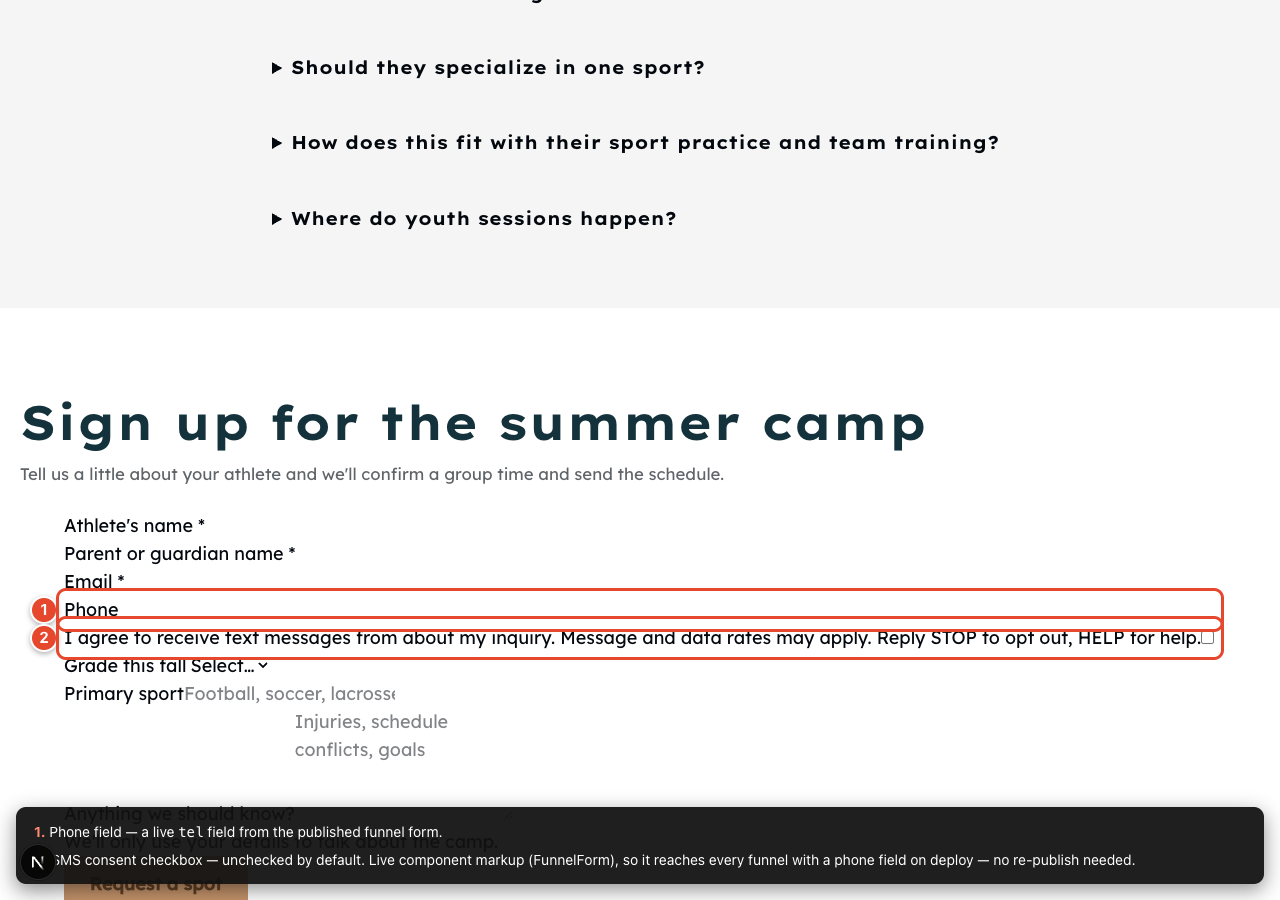
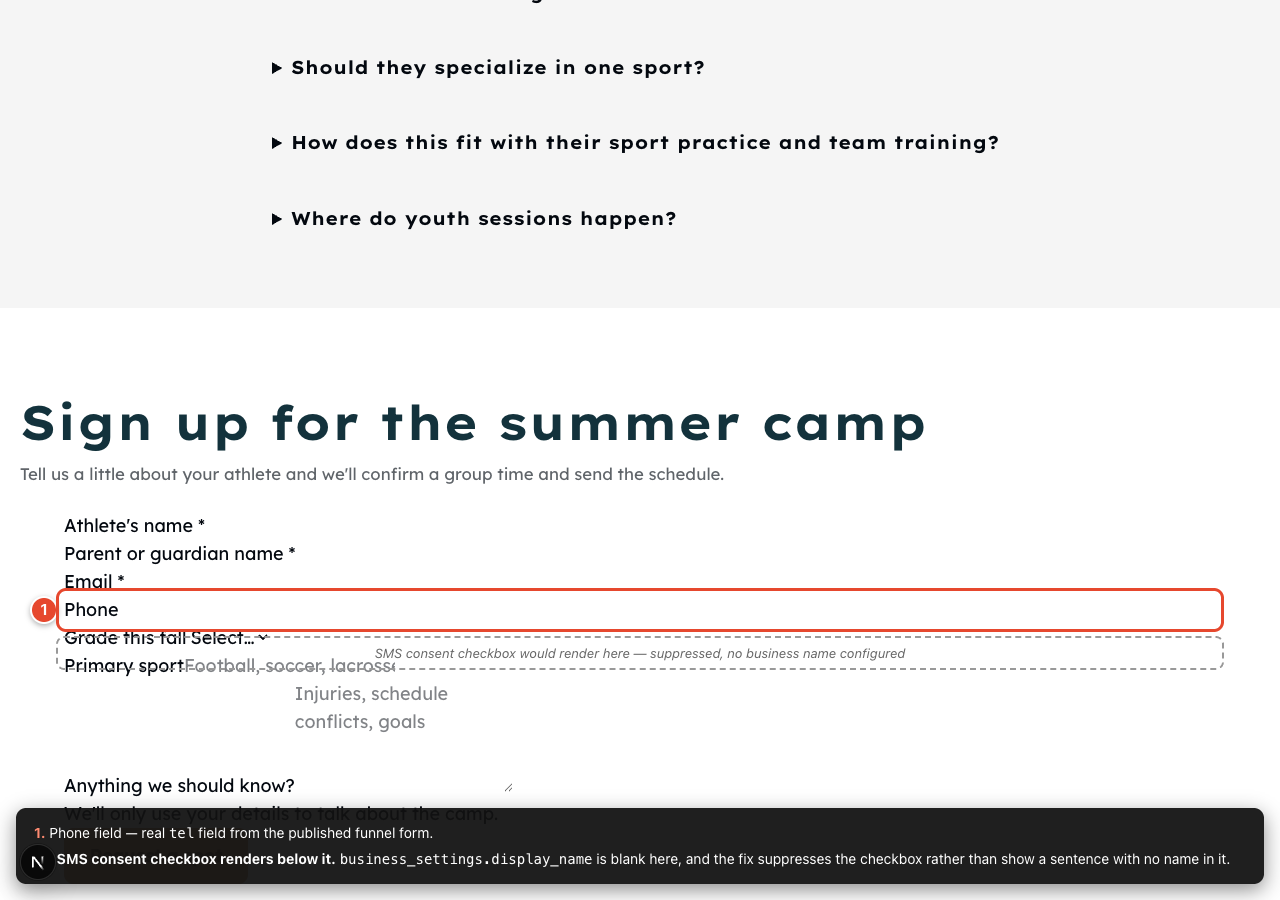
fix(lead-engine): no business name, no consent checkbox — a nameless sentence is not consent

Changed region(s): [[0.0, 0.6844, 0.9688, 0.84], [0.0312, 0.8711, 0.9375, 1.0]]

diff --git a/__tests__/components/funnels/form-island-sms-consent.test.tsx b/__tests__/components/funnels/form-island-sms-consent.test.tsx
@@ -1,0 +1,106 @@
+// __tests__/components/funnels/form-island-sms-consent.test.tsx
+//
+// FormIsland decides whether `FunnelForm` gets any `smsConsentWording` at
+// all — the decision that matters is made HERE, not in `FunnelForm` (which
+// already correctly renders no checkbox whenever the prop is absent; that
+// half is covered in funnel-form-editable.test.tsx).
+//
+// A failed `business_settings` read and a blank `display_name` must both
+// suppress the wording, never one of them falling through to a checkbox
+// whose sentence has a hole in it ("I agree to receive text messages from
+// about my inquiry."). Code review caught a version of this file that
+// substituted `""` on a failed read and still rendered the checkbox —
+// these tests pin the fixed behavior: no usable name, no checkbox, full stop.
+
+import { describe, expect, it, vi, beforeEach } from "vitest"
+
+const getActiveDocument = vi.fn()
+const getBusinessSettings = vi.fn()
+
+vi.mock("@/lib/db/legal-documents", () => ({
+  getActiveDocument: (...a: unknown[]) => getActiveDocument(...a),
+}))
+vi.mock("@/lib/legal-content", () => ({ renderLegalContent: (html: string) => html }))
+vi.mock("@/lib/db/businesses", () => ({
+  getBusinessSettings: (...a: unknown[]) => getBusinessSettings(...a),
+}))
+
+import { FormIsland } from "@/components/funnels/islands/FormIsland"
+import type { FunnelFormField } from "@/lib/funnels/islands"
+
+const CONTEXT = {
+  funnelId: "ffffffff-1111-4222-8333-444444444444",
+  funnelSlug: "test",
+  stepId: "3f1b7c5e-1111-4222-8333-444444444444",
+  stepSlug: "index",
+  isPreview: false,
+}
+
+const FIELDS_WITH_PHONE: FunnelFormField[] = [
+  { name: "email", label: "Email", type: "email", required: true },
+  { name: "phone", label: "Phone", type: "tel", required: false },
+]
+
+const FIELDS_NO_PHONE: FunnelFormField[] = [{ name: "email", label: "Email", type: "email", required: true }]
+
+// eslint-disable-next-line @typescript-eslint/no-explicit-any
+function wordingOf(element: any): string | undefined {
+  return element.props.smsConsentWording
+}
+
+beforeEach(() => {
+  getActiveDocument.mockReset()
+  getBusinessSettings.mockReset()
+})
+
+describe("FormIsland — SMS consent wording gate", () => {
+  it("passes no wording when the settings read fails", async () => {
+    // MUTANT KILLED: `.catch(() => null)` combined with `?.display_name ?? ""`
+    // — that substitutes an empty string for a failed read and still
+    // renders the checkbox, over a sentence with no name in it.
+    getBusinessSettings.mockRejectedValue(new Error("db unreachable"))
+    const element = await FormIsland({
+      props: { fields: FIELDS_WITH_PHONE, successMode: "message" },
+      context: CONTEXT,
+    })
+    expect(wordingOf(element)).toBeUndefined()
+  })
+
+  it("passes no wording when display_name is blank", async () => {
+    getBusinessSettings.mockResolvedValue({ display_name: "" })
+    const element = await FormIsland({
+      props: { fields: FIELDS_WITH_PHONE, successMode: "message" },
+      context: CONTEXT,
+    })
+    expect(wordingOf(element)).toBeUndefined()
+  })
+
+  it("passes no wording when display_name is whitespace-only", async () => {
+    getBusinessSettings.mockResolvedValue({ display_name: "   " })
+    const element = await FormIsland({
+      props: { fields: FIELDS_WITH_PHONE, successMode: "message" },
+      context: CONTEXT,
+    })
+    expect(wordingOf(element)).toBeUndefined()
+  })
+
+  it("passes the rendered wording when display_name is set", async () => {
+    getBusinessSettings.mockResolvedValue({ display_name: "Acme Fitness" })
+    const element = await FormIsland({
+      props: { fields: FIELDS_WITH_PHONE, successMode: "message" },
+      context: CONTEXT,
+    })
+    expect(wordingOf(element)).toBe(
+      "I agree to receive text messages from Acme Fitness about my inquiry. Message and data rates may apply. Reply STOP to opt out, HELP for help.",
+    )
+  })
+
+  it("never reads business_settings for a form with no tel field", async () => {
+    const element = await FormIsland({
+      props: { fields: FIELDS_NO_PHONE, successMode: "message" },
+      context: CONTEXT,
+    })
+    expect(getBusinessSettings).not.toHaveBeenCalled()
+    expect(wordingOf(element)).toBeUndefined()
+  })
+})

diff --git a/components/funnels/islands/FormIsland.tsx b/components/funnels/islands/FormIsland.tsx
@@ -4,7 +4,7 @@
 import { getActiveDocument } from "@/lib/db/legal-documents"
 import { renderLegalContent } from "@/lib/legal-content"
 import { getBusinessSettings } from "@/lib/db/businesses"
-import { renderSmsConsentWording } from "@/lib/lead-engine/sms-consent-wording"
+import { hasSmsConsentDisplayName, renderSmsConsentWording } from "@/lib/lead-engine/sms-consent-wording"
 import { FunnelForm } from "./FunnelForm"
 import type { FunnelRenderContext } from "./index"
 import type { FunnelFormField } from "@/lib/funnels/islands"
@@ -38,11 +38,20 @@ export async function FormIsland({ props, context }: FormIslandProps) {
   // the page's own data needs. `renderSmsConsentWording` is called with the
   // EXACT same input (`display_name`) the submit route re-renders from, so
   // `contact_consents.wording_shown` reproduces what the visitor actually saw.
-  // A settings-read failure must not break the whole form, so it degrades to
-  // no checkbox rather than a broken page.
-  const smsConsentWording = fields.some((field) => field.type === "tel")
-    ? renderSmsConsentWording((await getBusinessSettings().catch(() => null))?.display_name ?? "")
-    : undefined
+  //
+  // A FAILED READ AND A BLANK NAME BOTH DEGRADE TO NO CHECKBOX, never to a
+  // checkbox with broken wording. `business_settings.display_name` is seeded
+  // `''` on any install nobody has configured yet, and rendering that
+  // straight through would show a visitor "I agree to receive text messages
+  // from about my inquiry" — a sentence that cannot name the business is not
+  // valid consent wording. `hasSmsConsentDisplayName` is the same gate the
+  // submit route checks before filing the consent row, so "the name was
+  // unusable" can never mean one thing here and a different thing there.
+  const businessSettings = fields.some((field) => field.type === "tel")
+    ? await getBusinessSettings().catch(() => null)
+    : null
+  const displayName = businessSettings?.display_name
+  const smsConsentWording = hasSmsConsentDisplayName(displayName) ? renderSmsConsentWording(displayName) : undefined
 
   return (
     <FunnelForm

diff --git a/app/api/funnels/submit/route.ts b/app/api/funnels/submit/route.ts
@@ -26,7 +26,7 @@ import { recordAudit } from "@/lib/audit/record"
 import { captureContactFromSubmission } from "@/lib/funnels/capture-contact"
 import { recordConsent } from "@/lib/db/contact-consents"
 import { getBusinessSettings } from "@/lib/db/businesses"
-import { renderSmsConsentWording } from "@/lib/lead-engine/sms-consent-wording"
+import { hasSmsConsentDisplayName, renderSmsConsentWording } from "@/lib/lead-engine/sms-consent-wording"
 
 /** Bots submit instantly; a person cannot read and fill a form this fast. */
 const MIN_ELAPSED_MS = 1500
@@ -320,8 +320,15 @@ export async function POST(request: Request) {
  * was shown; re-deriving it from the same inputs is how both sides of that
  * claim stay provably identical.
  *
- * Called fire-and-forget from the caller below — see that call site's
- * comment for why.
+ * MIRRORS THE FORM ISLAND'S OWN GATE (`hasSmsConsentDisplayName`, checked
+ * before the checkbox is even shown): if `display_name` reads back blank
+ * here, no row is filed, even though `sms_consent` came in `true`. Without
+ * this check the two reads could disagree — the page rendered when a name
+ * was configured, business_settings went blank before this request landed
+ * (or vice versa) — and the row filed would misrepresent what the checkbox
+ * next to it actually said. Skipping is logged, never thrown: the lead was
+ * already captured by the caller before this ever runs, and a missing
+ * business name is not a reason to lose it.
  */
 async function recordFunnelSmsConsent(input: {
   contactId: string
@@ -329,6 +336,10 @@ async function recordFunnelSmsConsent(input: {
   userAgent: string | null
 }): Promise<void> {
   const settings = await getBusinessSettings()
+  if (!hasSmsConsentDisplayName(settings.display_name)) {
+    console.warn("[funnels/submit] sms consent skipped: business_settings.display_name is blank")
+    return
+  }
   await recordConsent({
     contactId: input.contactId,
     channel: "sms",

diff --git a/__tests__/api/funnels/submit-sms-consent.test.ts b/__tests__/api/funnels/submit-sms-consent.test.ts
@@ -152,4 +152,30 @@ describe("POST /api/funnels/submit — SMS consent", () => {
     expect(res.status).toBe(200)
     expect(recordConsent).not.toHaveBeenCalled()
   })
+
+  it("writes no consent row when business_settings.display_name is blank, even though sms_consent is true and phone is present — the lead is still captured", async () => {
+    // A sentence that cannot name the business is not consent to anything —
+    // the same rule the form island applies before it will even show the
+    // checkbox (FormIsland.tsx / hasSmsConsentDisplayName). Checked here too
+    // in case the two reads disagree: a page rendered while a name was
+    // configured, then business_settings went blank before this request
+    // reached the server (or vice versa).
+    getBusinessSettings.mockResolvedValue({ business_id: "biz-1", display_name: "" })
+    const res = await POST(request({ sms_consent: true }))
+    await flush()
+
+    expect(res.status).toBe(200)
+    expect(await res.json()).toMatchObject({ ok: true })
+    expect(createSubmission).toHaveBeenCalled()
+    expect(recordConsent).not.toHaveBeenCalled()
+  })
+
+  it("writes no consent row when business_settings.display_name is whitespace-only", async () => {
+    getBusinessSettings.mockResolvedValue({ business_id: "biz-1", display_name: "   " })
+    const res = await POST(request({ sms_consent: true }))
+    await flush()
+
+    expect(res.status).toBe(200)
+    expect(recordConsent).not.toHaveBeenCalled()
+  })
 })

diff --git a/lib/lead-engine/sms-consent-wording.ts b/lib/lead-engine/sms-consent-wording.ts
@@ -21,3 +21,26 @@
 export function renderSmsConsentWording(displayName: string): string {
   return `I agree to receive text messages from ${displayName} about my inquiry. Message and data rates may apply. Reply STOP to opt out, HELP for help.`
 }
+
+/**
+ * True only when `displayName` actually names a business — non-blank once
+ * whitespace is trimmed.
+ *
+ * `business_settings.display_name` is seeded `''` (migration 00212 — NOT
+ * NULL DEFAULT `''`), which is the state of any install nobody has
+ * configured yet, including production today. Feeding that straight into
+ * `renderSmsConsentWording` produces "I agree to receive text messages from
+ * about my inquiry." — a sentence that cannot name who is texting is not
+ * consent to anything.
+ *
+ * This is the ONE gate both call sites check, so "blank" and "the settings
+ * read failed" collapse to the same outcome everywhere: the funnel form
+ * island (deciding whether to show the checkbox at all) and the submit
+ * route (deciding whether to file the consent row) must never disagree
+ * about whether a name was usable — a checkbox rendered from one verdict and
+ * a consent row filed from the other is exactly the shown-vs-recorded
+ * mismatch this function exists to rule out.
+ */
+export function hasSmsConsentDisplayName(displayName: string | null | undefined): displayName is string {
+  return Boolean(displayName?.trim())
+}

diff --git a/components/funnels/islands/FunnelForm.tsx b/components/funnels/islands/FunnelForm.tsx
@@ -58,8 +58,12 @@ interface FunnelFormProps {
    *
    * `undefined` when the form has no `tel` field (FormIsland does not fetch
    * business settings for a form that has nothing to attach a phone consent
-   * to) — that renders no checkbox at all, the same "no pixel, no prop"
-   * contract `waiverHtml`/`consentText` already follow.
+   * to), OR when the business has no usable name — a failed settings read
+   * or a blank `display_name` (`hasSmsConsentDisplayName` in
+   * sms-consent-wording.ts) both collapse to the same "no wording" outcome
+   * rather than one of them rendering a checkbox over a sentence with a hole
+   * in it. Either way this renders no checkbox at all, the same "no pixel,
+   * no prop" contract `waiverHtml`/`consentText` already follow.
    */
   smsConsentWording?: string
   isPreview: boolean

diff --git a/screenshots/lead-engine-sms/README.md b/screenshots/lead-engine-sms/README.md
@@ -5,9 +5,16 @@ Captured 2026-08-21 by driving the real app with Playwright against branch
 the **dev** Supabase project (`anjvztjiokcgiyhobknq`) — never production. No
 row in the clone database was written or modified to take this shot.
 
-| File                 | What it shows                                                                                                                                       |
-| -------------------- | --------------------------------------------------------------------------------------------------------------------------------------------------- |
-| `funnel-consent.png` | `/go/test/index` — the real funnel page, real `NodeRenderer` → `FormIsland` → `FunnelForm` render chain, phone field + the new SMS consent checkbox |
+**Re-taken after code review.** The first capture showed the checkbox
+rendered with a malformed sentence ("...from about my inquiry") because
+`business_settings.display_name` is blank in this database. Review flagged
+that as consent evidence with a hole in it; the fix makes a blank or
+unreadable business name suppress the checkbox entirely, and this screenshot
+is from after that fix — see "The fix, and why the shot changed" below.
+
+| File                 | What it shows                                                                                                                                                     |
+| -------------------- | ----------------------------------------------------------------------------------------------------------------------------------------------------------------- |
+| `funnel-consent.png` | `/go/test/index` — the real funnel page, real `NodeRenderer` → `FormIsland` → `FunnelForm` render chain, phone field with **no** SMS consent checkbox (see below) |
 
 ## Why this is `/go/test/index?preview=1`, not a bare `/go/test/index`
 
@@ -54,16 +61,35 @@ funnel published after this branch's styles.ts (unrelated to Task 6) ships
 would show a properly boxed control; one published before it — like this
 test fixture — won't, and neither will its sibling fields.
 
-## Another pre-existing condition visible in the wording
+## The fix, and why the shot changed
 
 `business_settings.display_name` is seeded `''` in this clone (confirmed via
 `node scripts/dev-db-query.mjs business_settings "business_id,display_name"`),
 same default noted in `screenshots/lead-engine-stage1c/README.md` for the
-pipeline pages. `renderSmsConsentWording` (`lib/lead-engine/sms-consent-wording.ts`)
-has no fallback — its contract in the Task 6 brief is an exact string with
-`{displayName}` substituted, nothing more — so with a blank `display_name` the
-line reads "I agree to receive text messages from about my inquiry." (HTML
-collapses the resulting double space to one, so it isn't as visibly broken as
-the `'s pipeline` bug that README documents, but the sentence still reads as
-missing a name). Filling in `business_settings.display_name` is an ops step,
-not a code fix; flagged here for whoever runs the go-live checklist.
+pipeline pages. The first version of this task fed that straight into
+`renderSmsConsentWording` with no fallback, so the checkbox rendered next to
+"I agree to receive text messages from about my inquiry." — a sentence that
+cannot name who is texting. Code review caught two Medium findings on this:
+the same gap also meant a FAILED `business_settings` read rendered the
+checkbox too (the code substituted `""` and the comment claimed "no
+checkbox" without the code doing that), and — more seriously — a
+successfully-configured business name at page-render time could still go
+blank before the submit request landed (or vice versa), so the row filed
+could carry different wording than what the checkbox actually showed.
+
+**The fix:** `hasSmsConsentDisplayName` (`lib/lead-engine/sms-consent-wording.ts`)
+is now the one gate both sides check. `FormIsland.tsx` shows the checkbox
+only when a settings read succeeds AND `display_name` is non-blank —
+anything else (a failed read, or a blank/whitespace name) renders no
+checkbox at all, the same "no pixel" outcome. The submit route re-checks the
+same thing at write time and skips the consent row (logging why) even if
+`sms_consent` came in `true` — the lead capture is unaffected either way.
+
+This screenshot is from **after** that fix, against the same still-blank
+`display_name` (never written to — this task doesn't touch the clone DB), so
+it now shows the honest state for an unconfigured install: the phone field
+renders, and there is no checkbox beneath it. The annotation marks where the
+checkbox would have appeared. Filling in `business_settings.display_name` is
+still the ops step that turns the checkbox back on; it's just no longer
+possible to collect consent with a name-shaped hole in it while that's
+unset.
